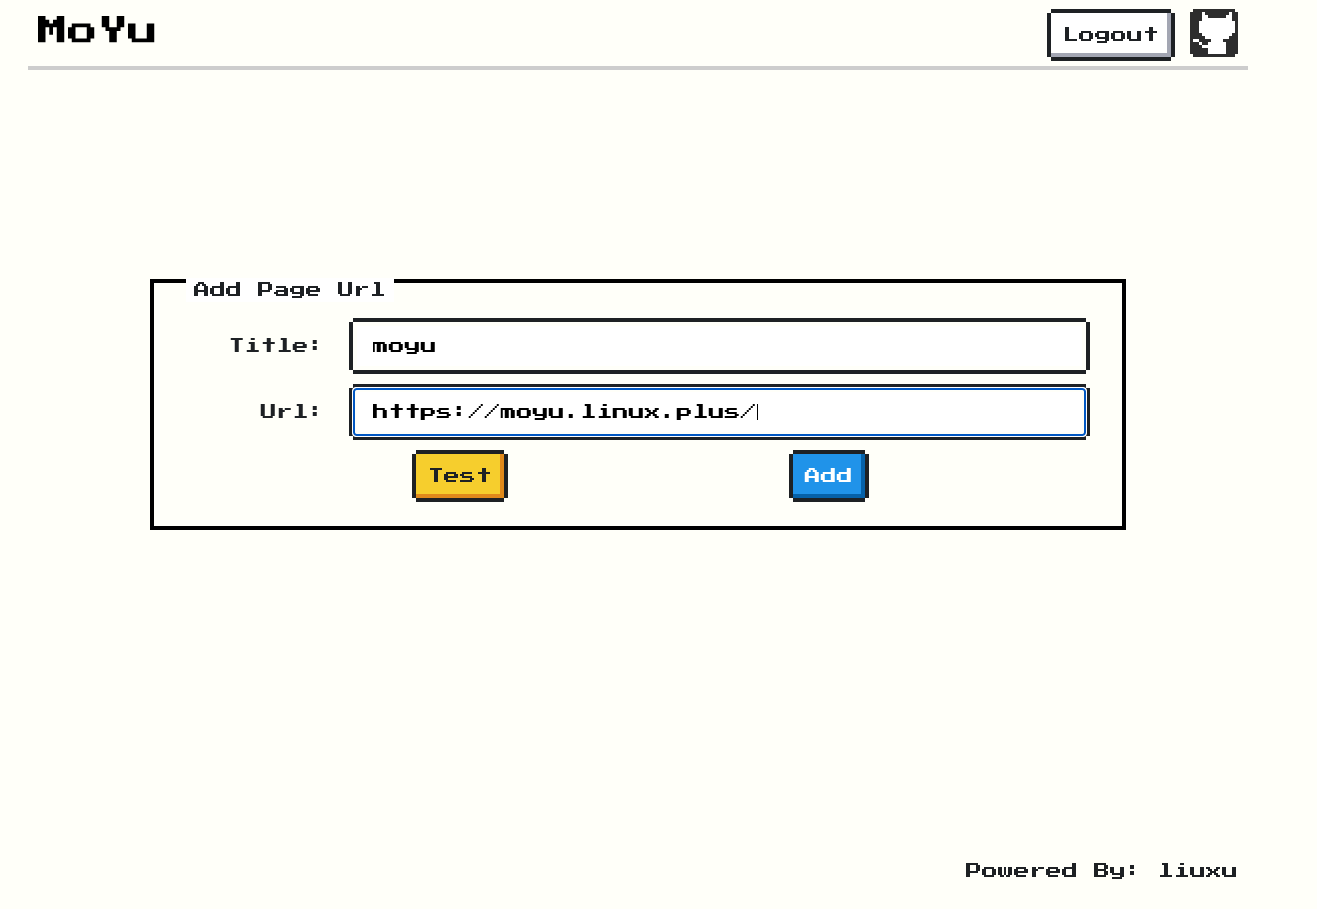
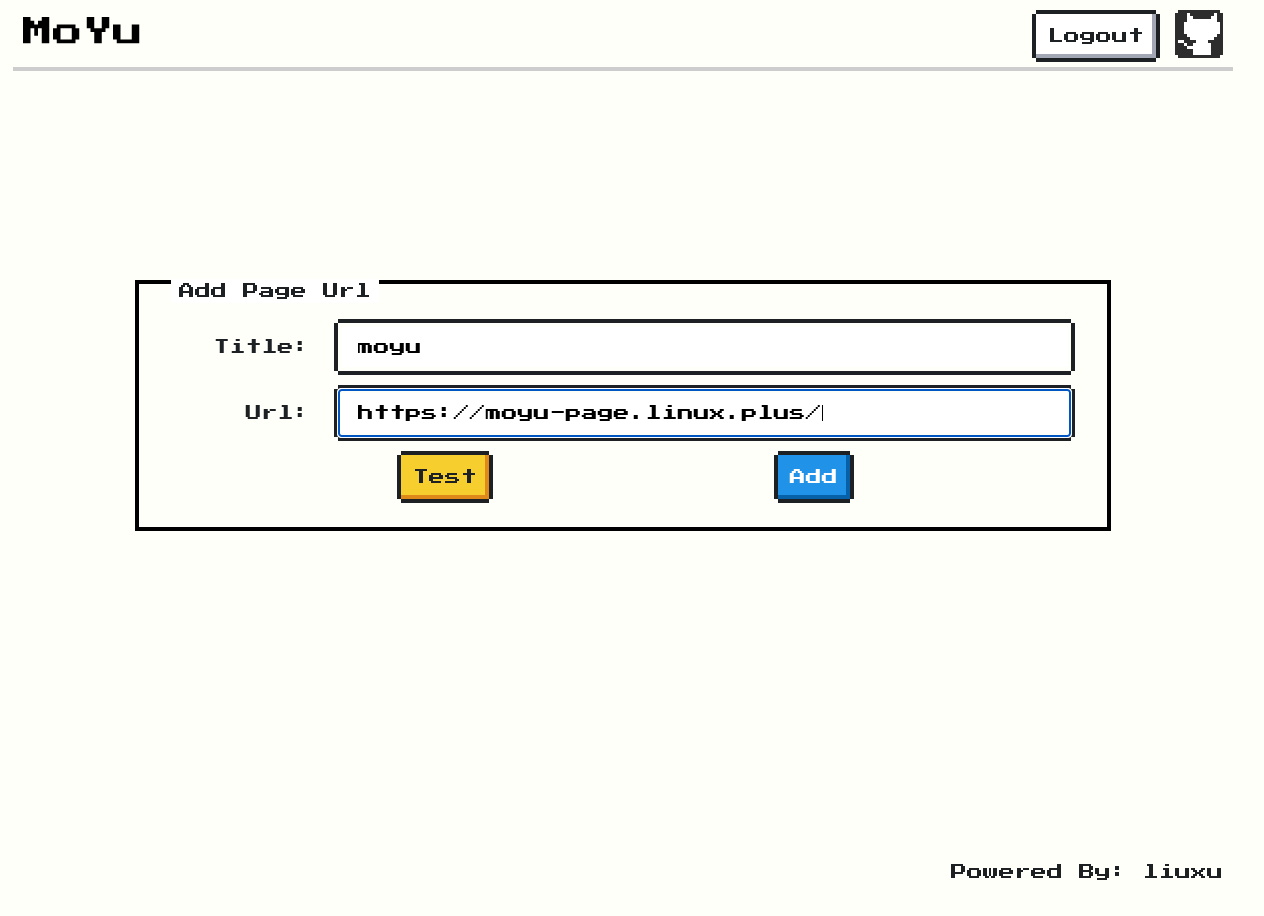
修改墨鱼演示页面地址

diff --git a/README.md b/README.md
@@ -59,7 +59,7 @@
     PORT=8080 ./bin/moyu-manager
     ```
 
-4. 添加墨鱼page。如本项目在线demo：`https://moyu.linux.plus/#/`，直接复制`https://moyu.linux.plus/`到`添加墨鱼page页面`即可。在墨鱼manager中，如果已登录，可以点击title访问墨鱼page。
+4. 添加墨鱼page。如本项目在线demo：`https://moyu-manager.linux.plus/`，直接复制墨鱼page主页`https://moyu-page.linux.plus/`到`添加墨鱼page页面`即可。在墨鱼manager中，如果已登录，可以点击title访问墨鱼page。
 
 ## 编译使用
 
